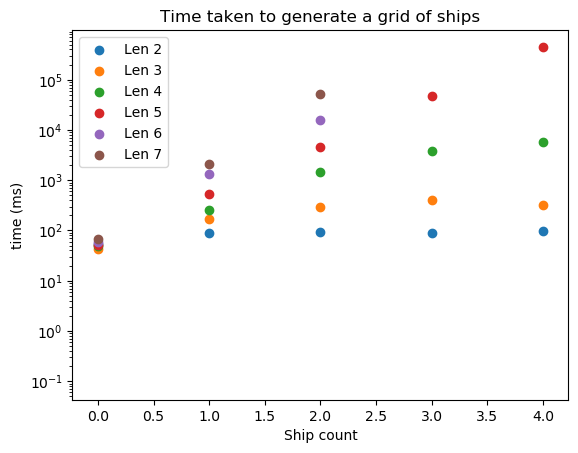
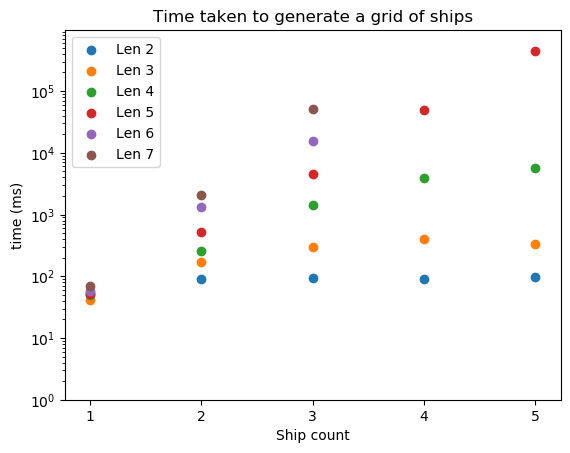
command line args
misc readme & arg changes, incl removing the json :(

diff --git a/src/Board.java b/src/Board.java
@@ -42,8 +42,8 @@ public class Board implements Serializable {
         Board board = new Board();
         
         // for 5x5 grid [2,3] or 10x10 grid [2,3,3,4,5]
-        int[] shipLen = {2,3}; //.json
-        char[] shipChar = {'2','3','A','4','5'};
+        int[] shipLen = {3,2}; // from the command line args
+        char[] shipChar = {'3','2','A','4','5'};
 
         for (int i = 0; i < shipCodes.length; i++) {
             // Create a new ship following fixed lengths (from rules & )
@@ -66,13 +66,6 @@ public class Board implements Serializable {
     }
 
     public Byte[] encodeBoard() {
-        //FIXME this needs to export in a consistant order
-        // Ideas:
-        //  - a sortedMap and a Comparator that sorts them on ship length (https://www.geeksforgeeks.org/comparator-interface-java/)
-        //      - does it once on adding time 
-        //  - a loop that gets each ship length from .json, finds the ship that length then puts in array
-        //      - not efficient, but matches the gameSettings rather than fixed order (tho gameSettings should obey an order)
-
         Collection<Byte>  encodedShipData = shipMap.values();
         Byte[] encoded = encodedShipData.toArray(new Byte[encodedShipData.size()]);
 
@@ -211,7 +204,7 @@ public class Board implements Serializable {
         return "("+x+","+y+")";
     }
 
-    public static int getSize() {
+    public static int getLen() {
         return Board.SIZE;
     }
 

diff --git a/timeTesting/timePlots.py b/timeTesting/timePlots.py
@@ -13,8 +13,7 @@ def readFile(filename):
         legend.append(f"Len {int(l[0])}")
 
         intNew = [int(x) for x in l[1].split(",")]
-        divs=len(intNew)
-        lblsNew=[x for x in range(len(intNew))]
+        lblsNew=[x+1 for x in range(len(intNew))]
         
         data.append([lblsNew,intNew])
  
@@ -31,7 +30,10 @@ def plot(data, legend):
     
     plt.yscale('log')
     plt.ylabel('time (ms)')
-
+    bottom, top = plt.ylim()  # return the current ylim
+    plt.ylim((1e0, top))   # set the ylim to bottom, top*10
+    
+    plt.xticks(data[0][0])
     plt.xlabel('Ship count')
     plt.savefig("results_timePlot.png", bbox_inches='tight')
 
@@ -42,4 +44,5 @@ if __name__ == "__main__":
 
     # total time
     individualSum = [sum(x[1]) for x in data]
-    print(f"Total Run: {sum(individualSum):.2f}")
+    print(f"Total Run: {(sum(individualSum))/(60000):.2f} mins")
+    print(f"\tNOTE: This time doesn't accont for time taken to put ships on board that crashed before completion")

diff --git a/README.md b/README.md
@@ -27,10 +27,10 @@ For a game, the data needed is:
     - length
 
 Since board size, and length are fixed for all games, this information is fixed in `gameSettings.json` (TODO, for now hardcoded)
-- [ ] should export in the same order specified in `.json`
+- [ ] should export in the same order specified in command line args
 
 The remaining data (x,y) and direction is encoded for each ship as follows:
-position = $x*10 + y$, then bitshifted left and final bit is the direction (`1` for horizontal ->)
+position $p=x\times 10 + y$, then bitshifted left and final bit is the direction (`1` for horizontal $\rightarrow$)
 
 
 
@@ -55,19 +55,7 @@ eg if it knows that '2' is in (0,2 and 0,3), then it can't be the second ship in
 ```
 
 
-## Ship stats & code outputs
-for 5x5 [2,3]:
-- takes about 1 sec to generate board pos
-- 956 different positions max
-
-
-As predicted, I ran out of memory on a complete 10x10 game (`Exception in thread "main" java.lang.OutOfMemoryError: Java heap space`)
-
-
-
 ## links & things
-[JFreeChart for plotting ect](https://github.com/jfree/jfreechart/releases/tag/v1.5.2)
-
 [Data genetics battleship blog](http://www.datagenetics.com/blog/december32011/), 
 [Yuval's Python notebook](https://colab.research.google.com/drive/1NlMnu8ftS8EpXtlaJMqdnYkbQQUpWEXm#scrollTo=q3jCF0oooxSv)
 
